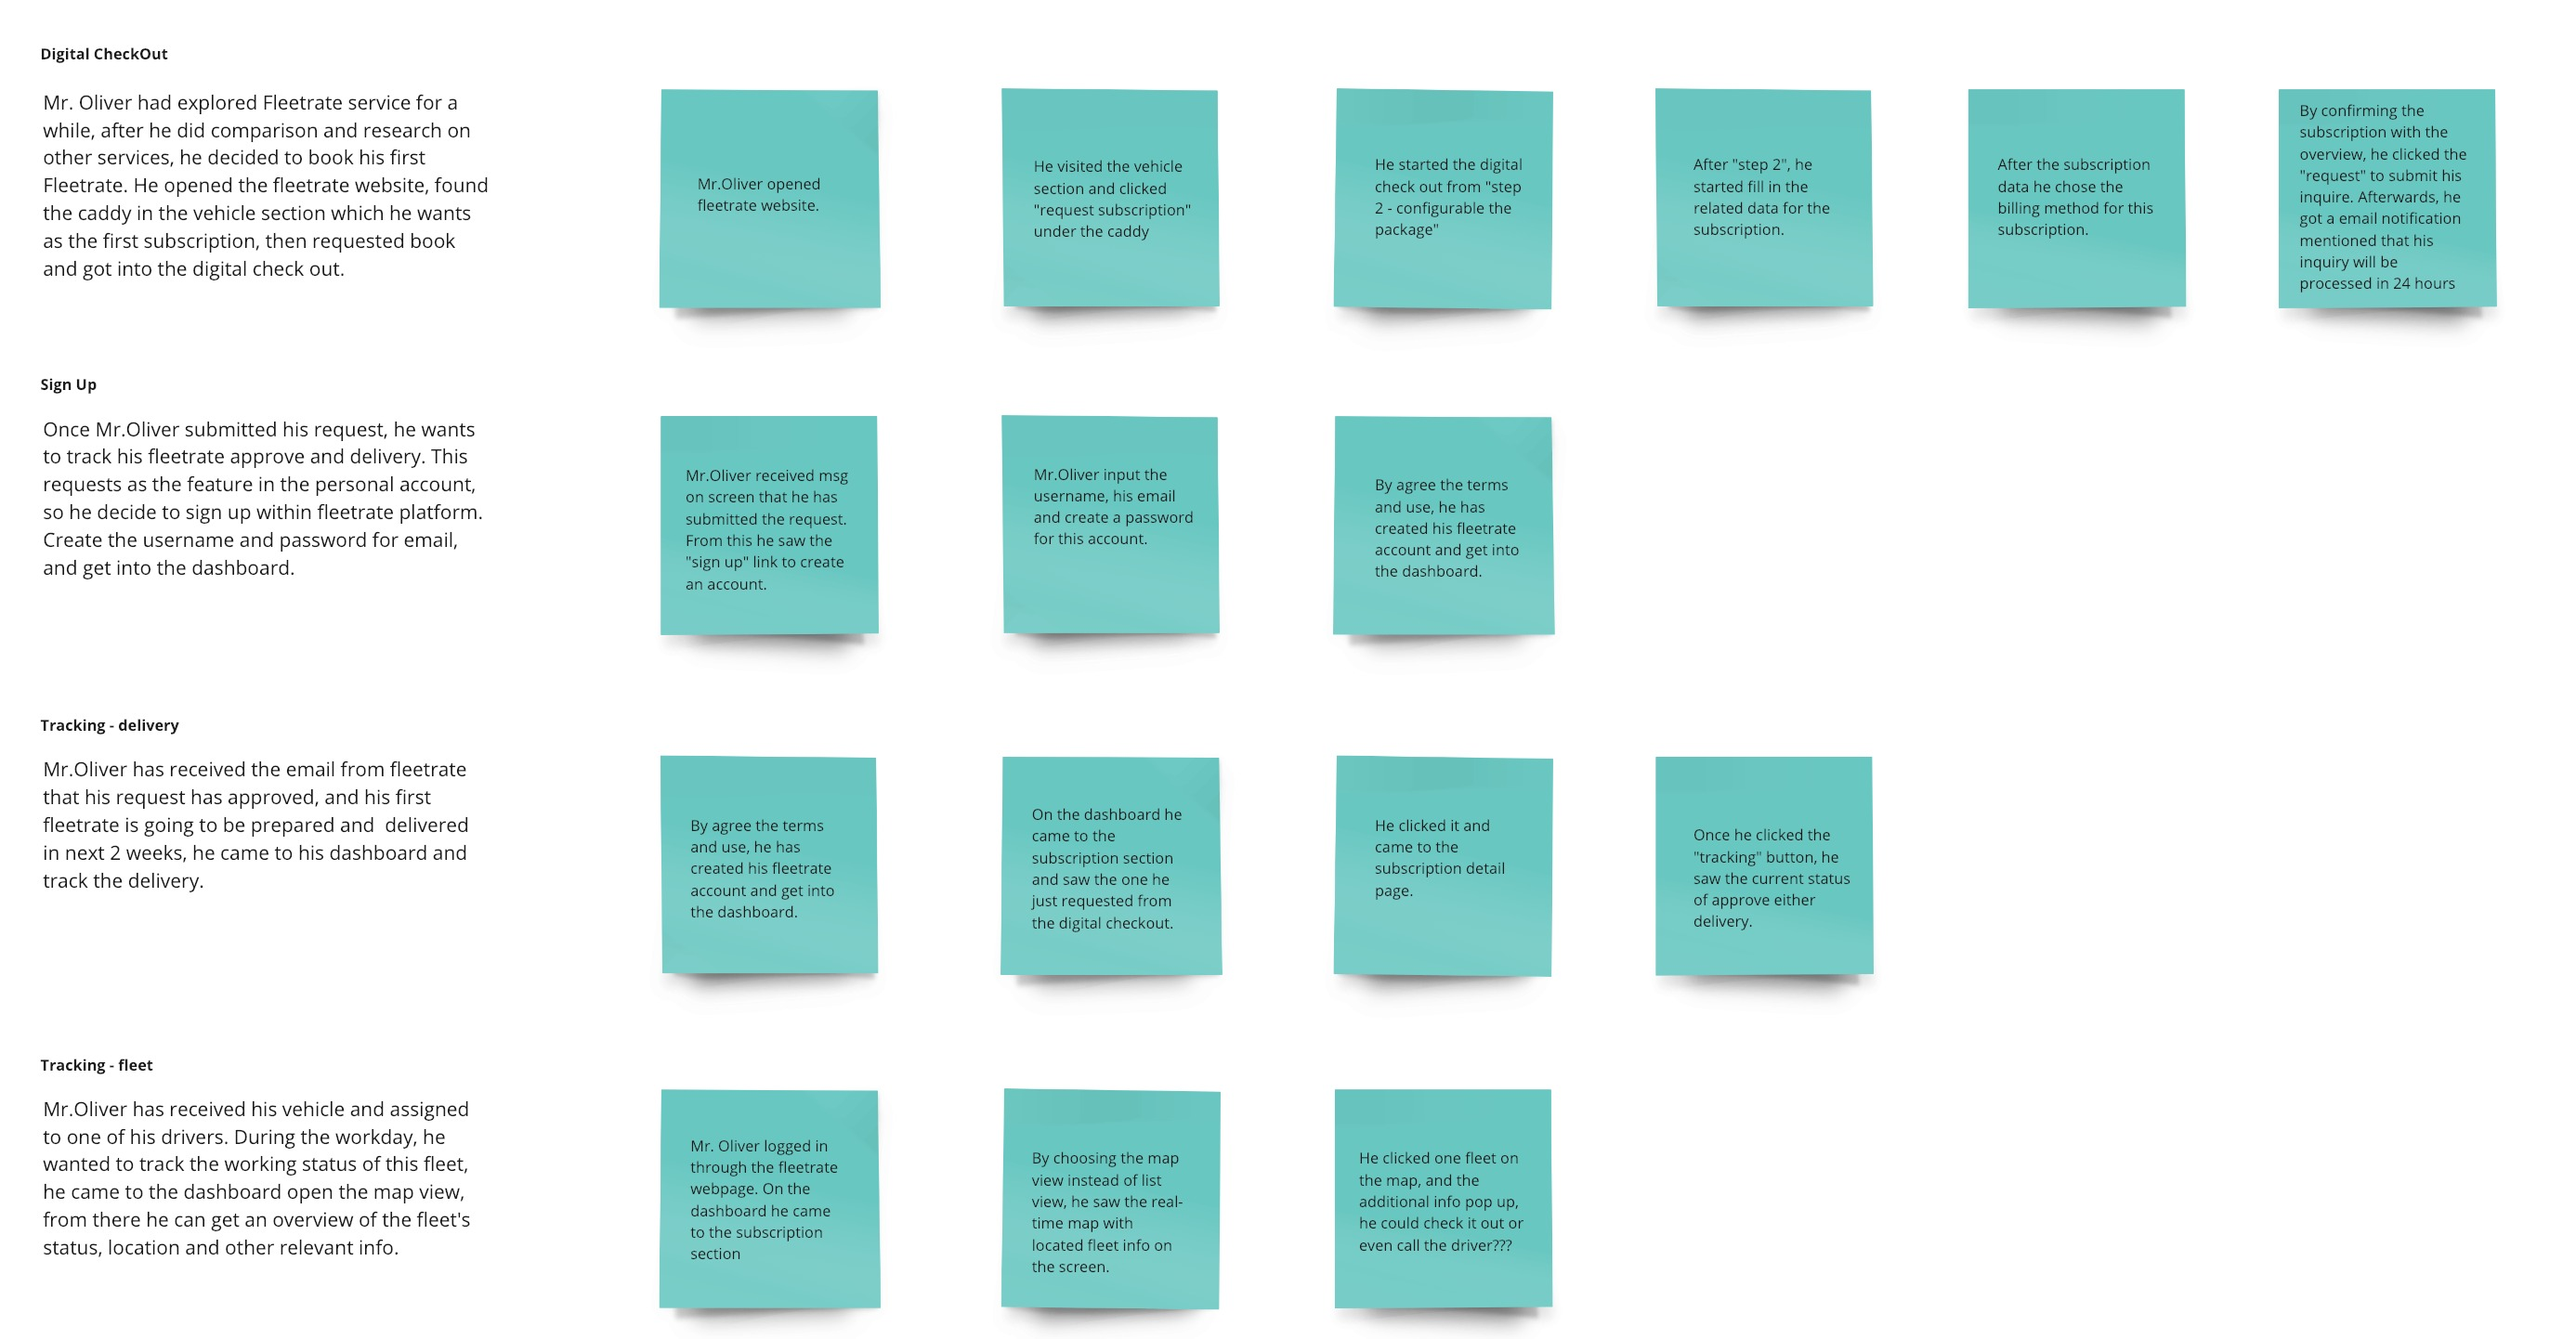
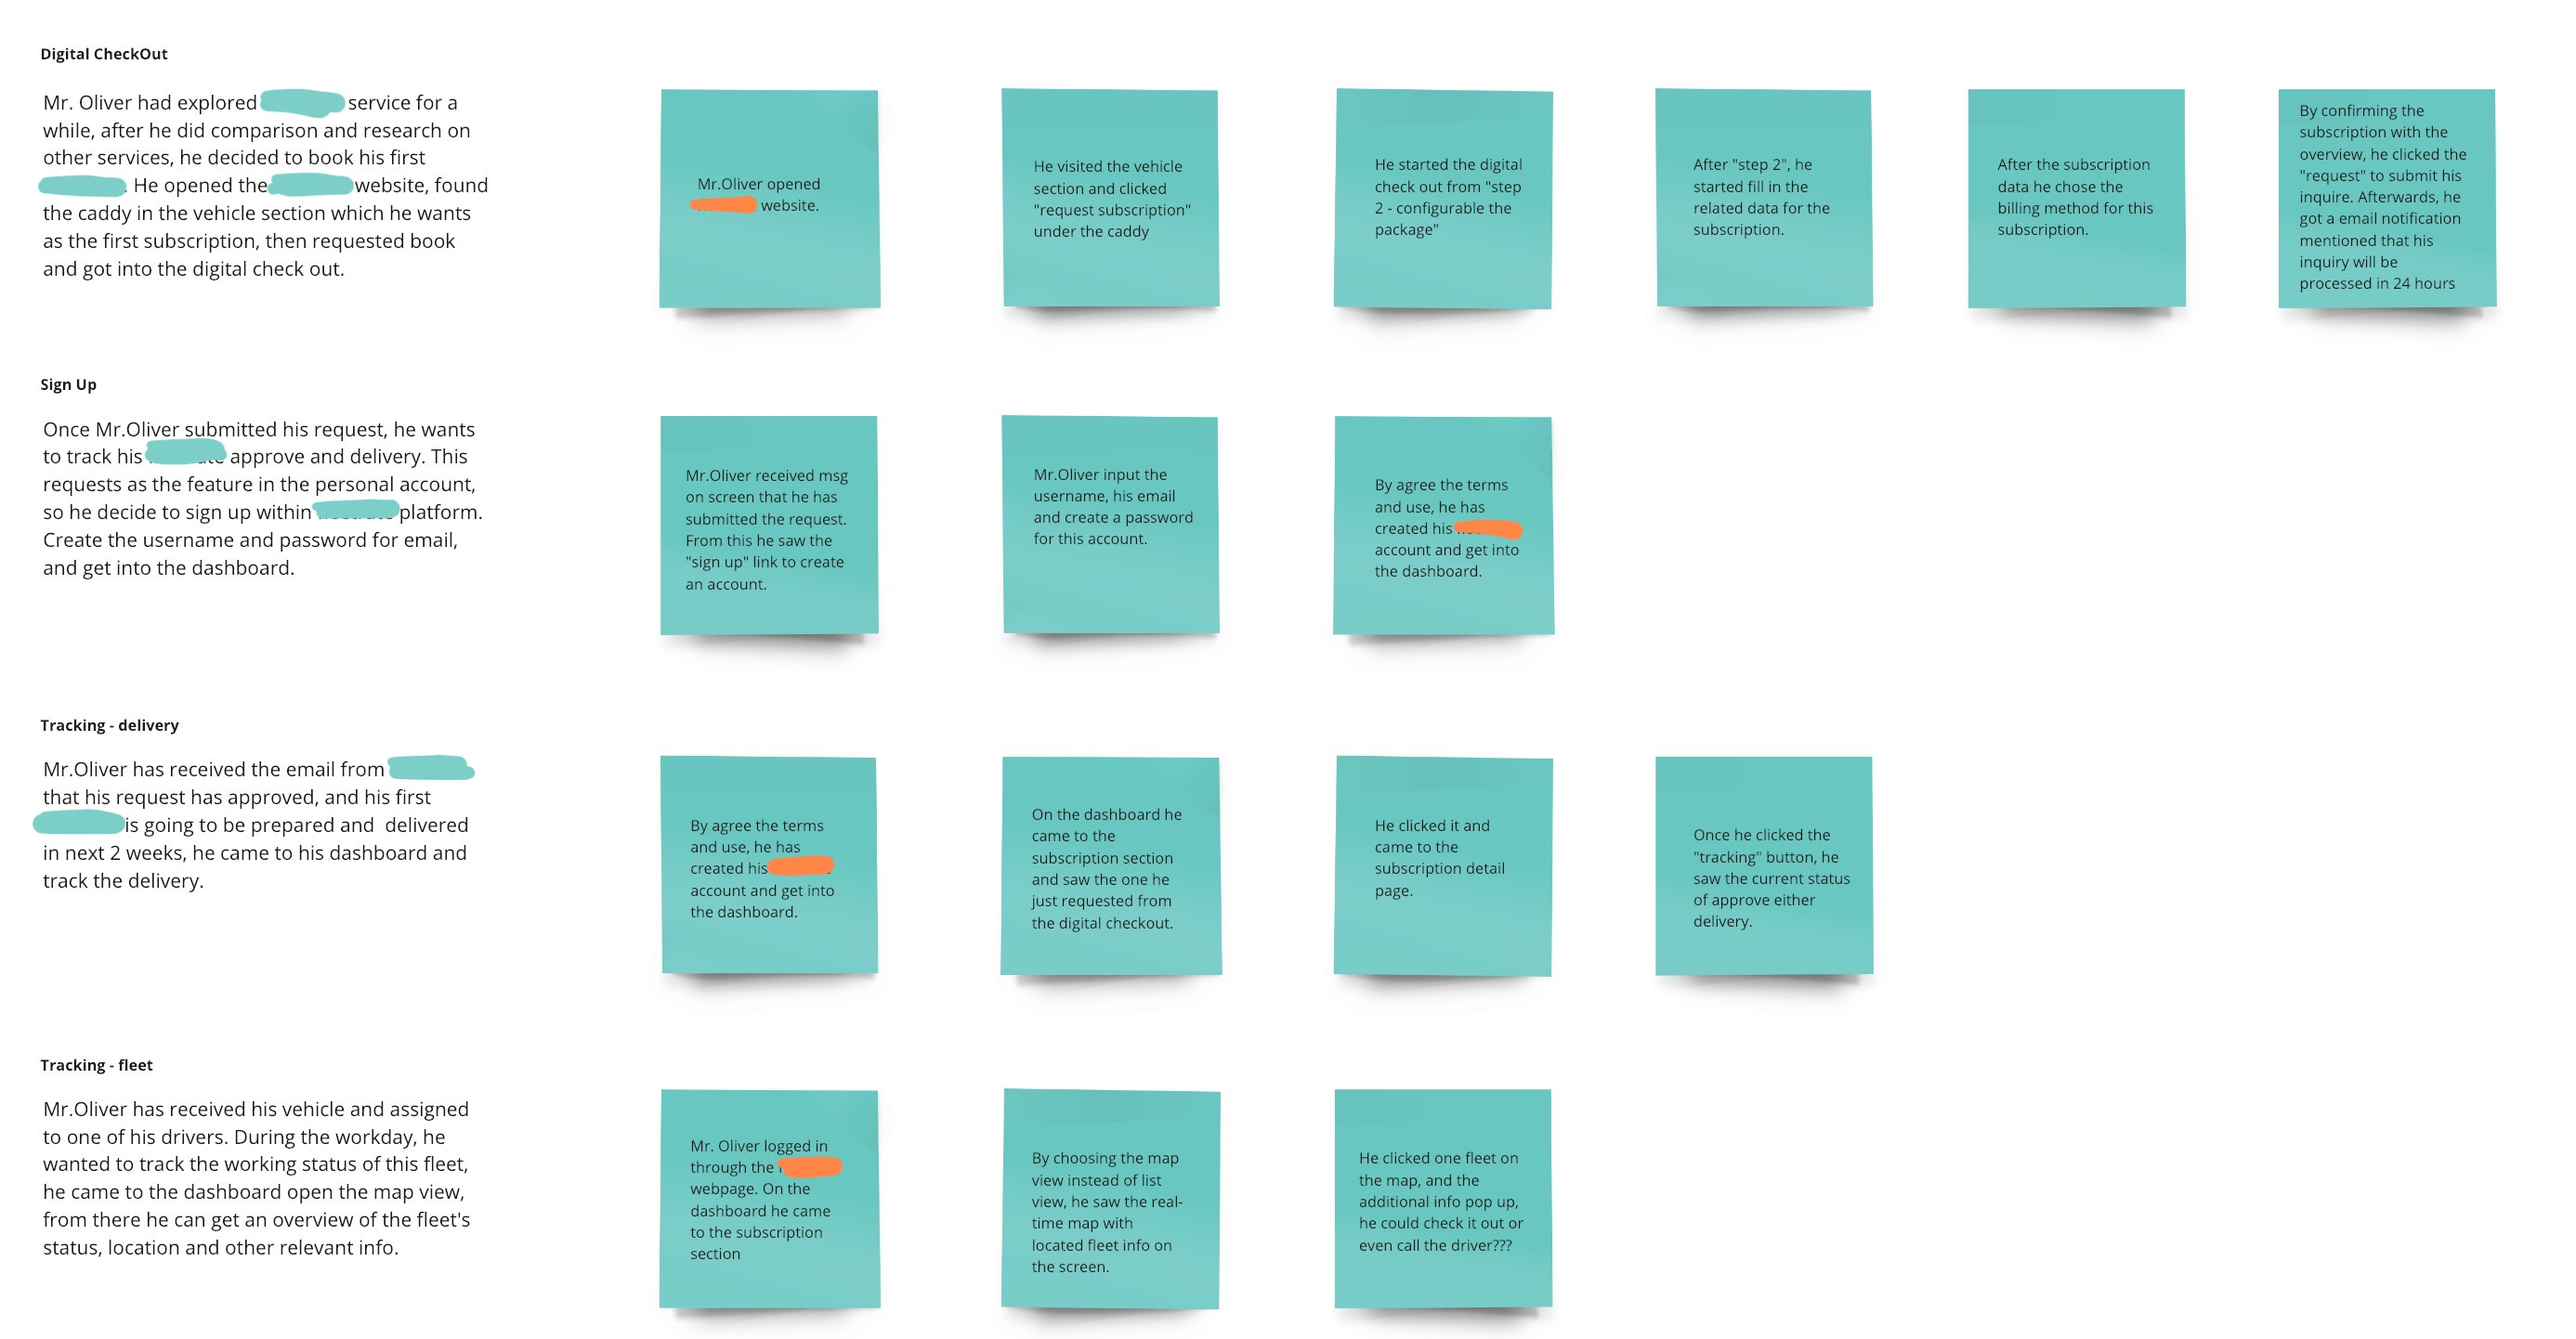
volkswagen update

diff --git a/portfolio/volkswagen.html b/portfolio/volkswagen.html
@@ -16,7 +16,7 @@
   		<link rel="shortcut icon" href="../images/logo_ly.png" type="image/x-icon" />
   	<link rel="stylesheet" href="../css/main.css" />
   	<link rel="stylesheet" href="../css/highlengstyle.css"> 
-		<script>
+		 <script>
 		  (function(i,s,o,g,r,a,m){i['GoogleAnalyticsObject']=r;i[r]=i[r]||function(){
 		  (i[r].q=i[r].q||[]).push(arguments)},i[r].l=1*new Date();a=s.createElement(o),
 		  m=s.getElementsByTagName(o)[0];a.async=1;a.src=g;m.parentNode.insertBefore(a,m)
@@ -25,30 +25,30 @@
 		  ga('create', 'UA-102127012-1', 'auto');
 		  ga('send', 'pageview');
 
-		  function password()
-			{
-			    var i=1;
-			        var passwd=prompt('A password is required to view this page.','Please input the password');//这是输入密码的提示语，可以改为你想要显示的内容，比如本站地址之类的
-			    while(i<3)
-			    {
-			        if(passwd=="highlengco")//这是密码
-			        {
-			        alert('Thanks for your interest! Please feel free to leave your feedback;D');//这是输入正确后的提示，可以改为自己想要的提示语
-			        break;
-			        }
-			        i++;
-			        var passwd=prompt('Sorry your code was wrong, please try it again:\nYou can try '+(4-i)+'more times');
-			    }
-			    if(password!="vip.zan.smarted"&&i==3)
-			    {
-			        alert('Sorry, we cannot find the matching. Please contact the author to correct the code.');
-			        location.href="../index.html#contact";//这是密码输入错误超过3次后转到的错误页面，也可设为别的页面
-			    }
-			    return "";
-			}
-			    password();
+		 //  function password()
+			// {
+			//     var i=1;
+			//         var passwd=prompt('A password is required to view this page.','Please input the password');//这是输入密码的提示语，可以改为你想要显示的内容，比如本站地址之类的
+			//     while(i<3)
+			//     {
+			//         if(passwd=="highlengco")//这是密码
+			//         {
+			//         alert('Thanks for your interest! Please feel free to leave your feedback;D');//这是输入正确后的提示，可以改为自己想要的提示语
+			//         break;
+			//         }
+			//         i++;
+			//         var passwd=prompt('Sorry your code was wrong, please try it again:\nYou can try '+(4-i)+'more times');
+			//     }
+			//     if(password!="vip.zan.smarted"&&i==3)
+			//     {
+			//         alert('Sorry, we cannot find the matching. Please contact the author to correct the code.');
+			//         location.href="../index.html#contact";//这是密码输入错误超过3次后转到的错误页面，也可设为别的页面
+			//     }
+			//     return "";
+			// }
+			//     password();
 
-		</script>
+		 </script>
 	</head>
 	<body id="top">
 
@@ -76,12 +76,13 @@
 								</article>
 								<article class="col-sm-3">
 									<p><b>My Role</b></p>
-									<p><small>UX/UI Design Intern</small></p>
+									<p><small>UX/UI Design Intern</small></p><br>
 								
 								</article>
 								<article class="col-sm-3">
 									<p><b>Deliverables</b></p>
-									<a href="https://fleetrate.co"  target="_blank"><small>Product Website</small></a><br>
+									<small>Wireframe, Mockup, etc</small><br>
+									<small>Product Website</small><br>
 								</article>
 
 							</div>
@@ -100,7 +101,7 @@
 			    <div class="text-left" > 
 			    	<section id="Brief">
 			    		<h3>Brief</h3>
-			      		<p>With Smart Mobility and Transport team at Volkswagen Nutzfahrzeuge, my responsibility during the internship mainly aiming at UX/UI iteration for the web-based product, which is called <b>Fleetrate</b>: doing customer research, master the UX process, design web UI and implement the landing page, collaborate with product manager, exteral designers and developers from the agency. We got funded <b>€ 1,000,000</b> from the Board Committee of Volkswagen Digital Transfromation by end of 2018, and our Fleetrate vehicle will be launched on the street beginning of Febuary, 2019. Besides, I also take part in the branding design for team and product sometimes.</p>
+			      		<p>With Smart Mobility and Transport team at Volkswagen Nutzfahrzeuge, my responsibility during the internship mainly aiming at UX/UI iteration for the web-based product: doing customer research, master the UX process, iterate and implement the web UI as well asthe landing page, collaborate with product manager, exteral designers and developers from the agency. We got funded € 1,000,000 from the Board Committee of Volkswagen Digital Transfromation by end of 2018, and our vehicles will be launched on the street beginning of Febuary, 2019. Besides, I also take part in the branding design for team and product sometimes.</p>
 			      		<h4>Please understand I have to fuzz some pictures to meet the confidiential request. Thanks❤</h4>
 			    	</section>
 
@@ -111,7 +112,7 @@
 					    		<img src="../images/volkswagen/fleetrate.png" width="100%">
 					    	</div>
 					    	<div class="col-sm-8">
-			      				<p>Fleetrate is a Light Commercial Vehicle(LCV) subscription service, which offers its commercial customers via digital channels vehicles with short-term availability and terminability.</p>
+			      				<p>Our product provides Light Commercial Vehicle(LCV) subscription service, which offers its commercial customers via digital channels vehicles with short-term availability and terminability.</p>
 					      		<div class=" d-none d-lg-block">
 						      		<div class="row">
 						      			<div class="col-md-3 col-6">
@@ -228,11 +229,9 @@
 
 			      	<section id="landingpage">
 			    		<h3>Landing Page</h3>
-			    		<p>The landing page was created by me and product manger together, on<b> webflow with embedded HTML/CSS</b>, HubSpot tracking, and other setups. Before we released the redesigned version, we received the positive feedback from the user test. And since we released our new landing page at beginning of January, 2019, we already received 30-50 leads from pontential customers.</p>
-			    		<a href="http://fleetrate.co" class="button scrolly border-free" target="_blank">Go to Landing page</a>
+			    		<p>The landing page was created by me and product manger together, on<b> webflow with embedded HTML/CSS</b>, HubSpot tracking, and other setups. Before we released the redesigned version, we received the positive feedback from the user test. And since we released our new landing page at beginning of January, 2019, we already received 30-50 leads from pontential customers in two weeks.</p>
+			    		<!-- <a href="http://fleetrate.co" class="button scrolly border-free" target="_blank">Go to Landing page</a> -->
 			    		
-			    		<br>
-			    		<br>
 			    	</section>
 
 			      	<section id="Wireframe">
